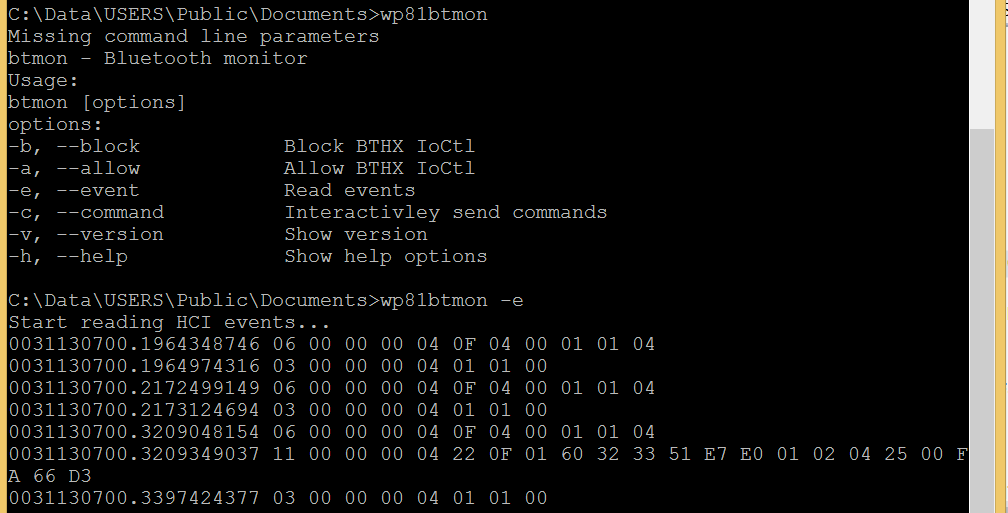
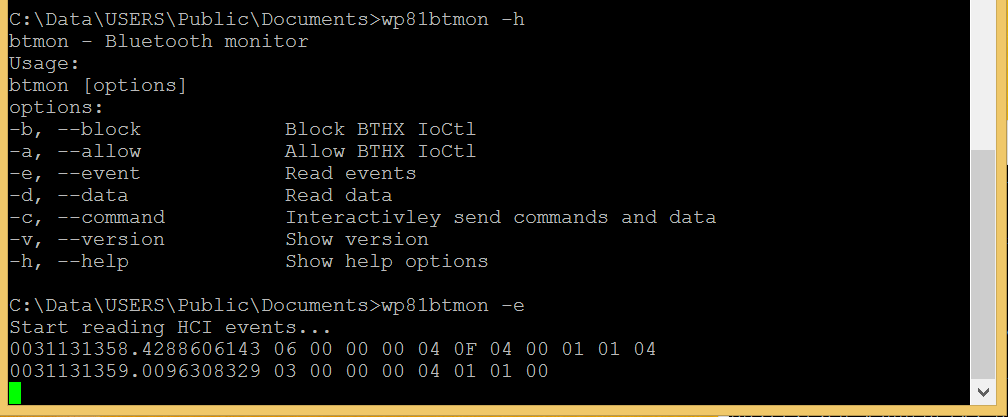
read data

Changed region(s): [[0.0, 0.0, 1.0, 1.0]]

diff --git a/wp81btmon/control.cpp b/wp81btmon/control.cpp
@@ -229,7 +229,7 @@ void control_init_send_commands(void)
 	inputBuffer = (UCHAR*)malloc(262);
 	outputBuffer = (UCHAR*)malloc(4);
 
-	printf("Input HCI commands...\n");
+	printf("Input HCI commands or ACL data...\n");
 }
 
 void control_cleanup_send_commands(void)
@@ -307,6 +307,52 @@ bool control_send_commands(void)
 
 	return success;
 }
+
+
+void control_init_read_data(void)
+{
+	hciControlDevice = CreateFileA("\\\\.\\wp81controldevice", GENERIC_WRITE, FILE_SHARE_WRITE, nullptr, OPEN_EXISTING, 0, nullptr);
+	if (hciControlDevice == INVALID_HANDLE_VALUE)
+	{
+		printf("Failed to open wp81controldevice device! 0x%08X\n", GetLastError());
+		abort();
+	}
+
+	inputBuffer = (UCHAR*)malloc(4);
+	outputBuffer = (UCHAR*)malloc(1030);
+
+	printf("Start reading HCI ACL data...\n");
+}
+
+void control_cleanup_read_data(void)
+{
+	CloseHandle(hciControlDevice);
+	free(inputBuffer);
+	free(outputBuffer);
+}
+
+bool control_read_data(void)
+{
+	DWORD information = 0;
+	bool success;
+
+	inputBuffer[0] = 0x02;
+	inputBuffer[1] = 0x00;
+	inputBuffer[2] = 0x00;
+	inputBuffer[3] = 0x00;
+	success = DeviceIoControl(hciControlDevice, IOCTL_CONTROL_READ_HCI, inputBuffer, 4, outputBuffer, 262, &information, nullptr);
+	if (success)
+	{
+		printBuffer2HexString(outputBuffer, information);
+	}
+	else
+	{
+		printf("Failed to send IOCTL_CONTROL_READ_HCI! 0x%X\n", GetLastError());
+	}
+
+	return success;
+}
+
 
 int control_tracing(void)
 {

diff --git a/wp81btmon/wp81btmon.cpp b/wp81btmon/wp81btmon.cpp
@@ -38,7 +38,8 @@ static void usage(void)
 		"\t-b, --block            Block BTHX IoCtl\n"
 		"\t-a, --allow            Allow BTHX IoCtl\n"
 		"\t-e, --event            Read events\n"
-		"\t-c, --command          Interactivley send commands\n"
+		"\t-d, --data             Read data\n"
+		"\t-c, --command          Interactivley send commands and data\n"
 		"\t-v, --version          Show version\n"
 		"\t-h, --help             Show help options\n");
 }
@@ -47,6 +48,7 @@ static const struct option main_options[] = {
 	{ "block",     no_argument,       NULL, 'b' },
 	{ "allow",     no_argument,       NULL, 'a' },
 	{ "event",     no_argument,       NULL, 'e' },
+	{ "data",      no_argument,       NULL, 'd' },
 	{ "command",   no_argument,       NULL, 'c' },
 	{ "version",   no_argument,       NULL, 'v' },
 	{ "help",      no_argument,       NULL, 'h' },
@@ -69,7 +71,7 @@ int main(int argc, char* argv[])
 		int opt;
 
 		opt = getopt_long(argc, argv,
-			"baecvh",
+			"baedcvh",
 			main_options, NULL);
 
 		if (opt < 0) {
@@ -86,6 +88,9 @@ int main(int argc, char* argv[])
 			break;
 		case 'e':
 			mainLoopMode = MODE_READ_EVENTS;
+			break;
+		case 'd':
+			mainLoopMode = MODE_READ_DATA;
 			break;
 		case 'c':
 			mainLoopMode = MODE_SEND_COMMANDS;

diff --git a/wp81btmon/mainloop.cpp b/wp81btmon/mainloop.cpp
@@ -40,6 +40,9 @@ void mainloop_init(int mainLoopMode)
 	case MODE_SEND_COMMANDS:
 		control_init_send_commands();
 		break;
+	case MODE_READ_DATA:
+		control_init_read_data();
+		break;
 	}
 }
 
@@ -51,6 +54,9 @@ void mainloop_cleanup(int mainLoopMode)
 		break;
 	case MODE_SEND_COMMANDS:
 		control_cleanup_send_commands();
+		break;
+	case MODE_READ_DATA:
+		control_cleanup_read_data();
 		break;
 	}
 }
@@ -87,6 +93,12 @@ int mainloop_run(int mainLoopMode)
 			break;
 		case MODE_SEND_COMMANDS:
 			if (!control_send_commands())
+			{
+				mainloop_exit_failure();
+			}
+			break;
+		case MODE_READ_DATA:
+			if (!control_read_data())
 			{
 				mainloop_exit_failure();
 			}

diff --git a/wp81btmon/control.h b/wp81btmon/control.h
@@ -32,3 +32,7 @@ void control_cleanup_read_events(void);
 bool control_send_commands(void);
 void control_init_send_commands(void);
 void control_cleanup_send_commands(void);
+
+bool control_read_data(void);
+void control_init_read_data(void);
+void control_cleanup_read_data(void);

diff --git a/wp81btmon/mainloop.h b/wp81btmon/mainloop.h
@@ -12,6 +12,7 @@
 #define MODE_NOTHING 0
 #define MODE_READ_EVENTS 1
 #define MODE_SEND_COMMANDS 2
+#define MODE_READ_DATA 3
 
 typedef void(*mainloop_destroy_func) (void *user_data);
 
